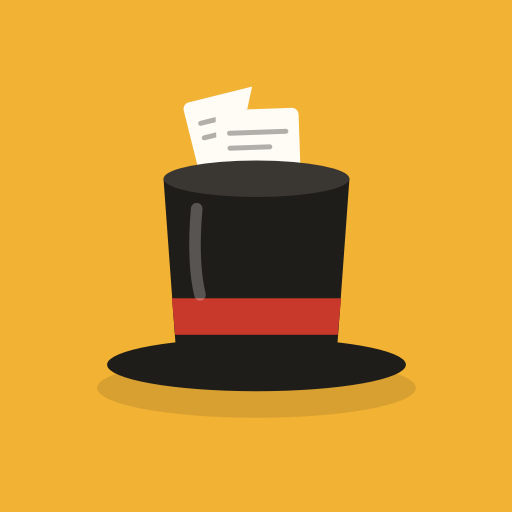
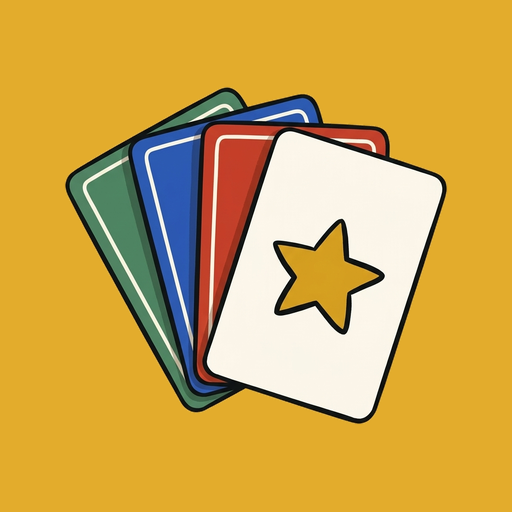
Ícone do app: leque de cartas do Nano Banana, encaixado na área segura do Android

diff --git a/tools/app_icon.py b/tools/app_icon.py
@@ -1,0 +1,102 @@
+#!/usr/bin/env python3
+"""Gera os PNGs do ícone do app a partir da arte do Nano Banana (docs/app_icon_prompts.md).
+
+Lê art_originais/app_icon/app_icon_art.{png,jpg} (fora do APK), separa o fundo liso (preenchimento a partir dos cantos) e
+encaixa o desenho na área que o Android nunca recorta: um círculo de 61% do lado no ícone adaptativo.
+O fundo adaptativo é a cor lisa da própria arte. Sem a arte, rode tools/render_icons.gd (SVGs).
+Uso: python3 tools/app_icon.py [--preview pasta]
+"""
+import math
+import sys
+from pathlib import Path
+
+from PIL import Image, ImageDraw, ImageStat
+
+ROOT = Path(__file__).resolve().parent.parent
+STORE = ROOT / "design/store"
+SENTINEL = (255, 0, 255)
+
+
+def load_art() -> Image.Image:
+    for ext in ("png", "jpg", "jpeg", "webp"):
+        p = ROOT / f"art_originais/app_icon/app_icon_art.{ext}"
+        if p.exists():
+            return Image.open(p).convert("RGB")
+    sys.exit("arte não encontrada em art_originais/app_icon/app_icon_art.*")
+
+
+def split(art: Image.Image) -> tuple[Image.Image, tuple]:
+    """Desenho com fundo transparente, e a cor do fundo."""
+    keyed = art.copy()
+    w, h = keyed.size
+    for xy in [(0, 0), (w - 1, 0), (0, h - 1), (w - 1, h - 1)]:
+        if keyed.getpixel(xy) != SENTINEL:
+            ImageDraw.floodfill(keyed, xy, SENTINEL, thresh=48)
+    bgmask = Image.new("L", (w, h), 0)
+    px, km = keyed.load(), bgmask.load()
+    for y in range(h):
+        for x in range(w):
+            if px[x, y] == SENTINEL:
+                km[x, y] = 255
+    color = tuple(int(c) for c in ImageStat.Stat(art, bgmask).median)
+    fg = art.convert("RGBA")
+    fg.putalpha(Image.eval(bgmask, lambda v: 255 - v))
+    return fg.crop(fg.getbbox()), color
+
+
+def radius(fg: Image.Image) -> float:
+    """Maior distância de um pixel do desenho ao centro dele."""
+    a = fg.getchannel("A").load()
+    w, h = fg.size
+    cx, cy = w / 2, h / 2
+    r = 0.0
+    for y in range(0, h, 2):
+        for x in range(0, w, 2):
+            if a[x, y] > 128:
+                r = max(r, math.hypot(x - cx, y - cy))
+    return r
+
+
+def compose(fg: Image.Image, r: float, side: int, frac: float, bg) -> Image.Image:
+    """Desenho centrado, com o raio ocupando `frac` do lado. bg None = transparente."""
+    s = frac * side / r
+    d = fg.resize((max(1, round(fg.width * s)), max(1, round(fg.height * s))), Image.LANCZOS)
+    out = Image.new("RGBA", (side, side), (*bg, 255) if bg else (0, 0, 0, 0))
+    out.alpha_composite(d, ((side - d.width) // 2, (side - d.height) // 2))
+    return out
+
+
+def main() -> None:
+    fg, bg = split(load_art())
+    r = radius(fg)
+    # Adaptativo: o círculo seguro tem 66/108 do lado; deixa uma folguinha.
+    compose(fg, r, 432, 0.29, None).save(STORE / "icon_fg_432.png")
+    Image.new("RGBA", (432, 432), (*bg, 255)).save(STORE / "icon_bg_432.png")
+    # Antigo (192) e loja (512): quadrado inteiro, a loja arredonda os cantos.
+    for side in (192, 512):
+        compose(fg, r, side, 0.40, bg).save(STORE / f"icon_{side}.png")
+    print("fundo #%02X%02X%02X" % bg)
+    if "--preview" in sys.argv:
+        out = Path(sys.argv[sys.argv.index("--preview") + 1])
+        full = Image.alpha_composite(Image.open(STORE / "icon_bg_432.png"), Image.open(STORE / "icon_fg_432.png"))
+        sheet = Image.new("RGBA", (4 * 460, 460), (245, 239, 227, 255))
+        shapes = [("circle", None), ("squircle", 0.3), ("rounded", 0.16), ("teardrop", None)]
+        for i, (name, rr) in enumerate(shapes):
+            m = Image.new("L", (432, 432), 0)
+            dr = ImageDraw.Draw(m)
+            if name == "circle":
+                dr.ellipse([0, 0, 431, 431], fill=255)
+            elif name == "teardrop":
+                dr.rounded_rectangle([0, 0, 431, 431], radius=216, fill=255)
+                dr.rectangle([216, 216, 431, 431], fill=255)
+            else:
+                dr.rounded_rectangle([0, 0, 431, 431], radius=int(432 * rr), fill=255)
+            # O launcher mostra só os 72/108 do meio.
+            crop = full.crop((72, 72, 360, 360)).resize((432, 432))
+            sheet.paste(crop, (14 + i * 460, 14), m)
+        sheet.save(out / "icon_masks.png")
+        Image.open(STORE / "icon_512.png").save(out / "icon_512.png")
+
+
+if __name__ == "__main__":
+    main()

diff --git a/docs/app_icon_prompts.md b/docs/app_icon_prompts.md
@@ -6,8 +6,8 @@ Hoje o ícone é a cartola do Chapéu. O novo é um **leque de 4 cartas** nas co
 
 1. Cole o **bloco de estilo** e depois **uma** das variações, os dois na mesma mensagem. Gere umas 3 de cada variação que você gostar.
 2. Para ficar com cara de família, anexe o **Duque 1** do Coup (`art_originais/coup/art/duque_1.jpg`) e escreva "match the painting style of the attached image, but not its subject".
-3. Salve a escolhida como `design/icons/app_icon_art.png` (ou `.jpg`), quadrada, de 1024 × 1024 para cima. Se não conseguir decidir, salve mais de uma com qualquer nome em `design/icons/` e me diga os nomes.
-4. Eu gero todos os tamanhos do Android e da loja, e mostro como fica na tela do celular.
+3. Salve a escolhida como `art_originais/app_icon/app_icon_art.png` (ou `.jpg`), quadrada, de 1024 × 1024 para cima. As outras podem ficar na mesma pasta: ela não vai para o APK.
+4. Rode `python3 tools/app_icon.py`: ele separa o fundo, encaixa o desenho na área que o Android não recorta e gera os tamanhos em `design/store/`.
 
 Por que o desenho tem que ficar no meio: o Android recorta o ícone em círculo, quadrado arredondado ou gota, conforme o aparelho, e corta até 1/6 de cada borda. Por isso o prompt pede as cartas dentro dos 60% do meio e o fundo liso de ponta a ponta.
 
